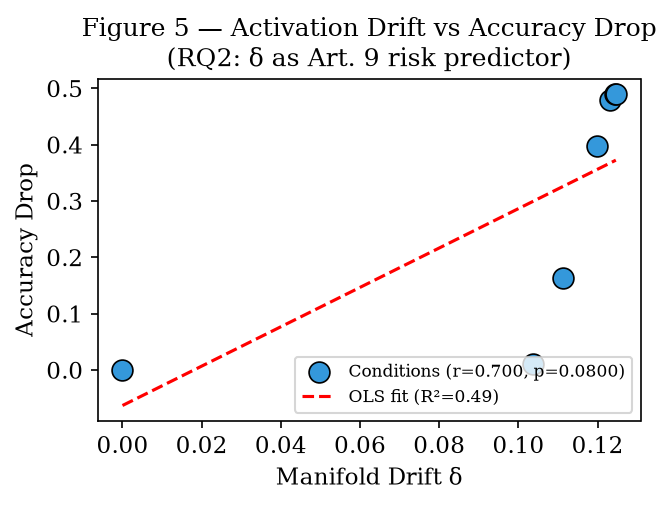
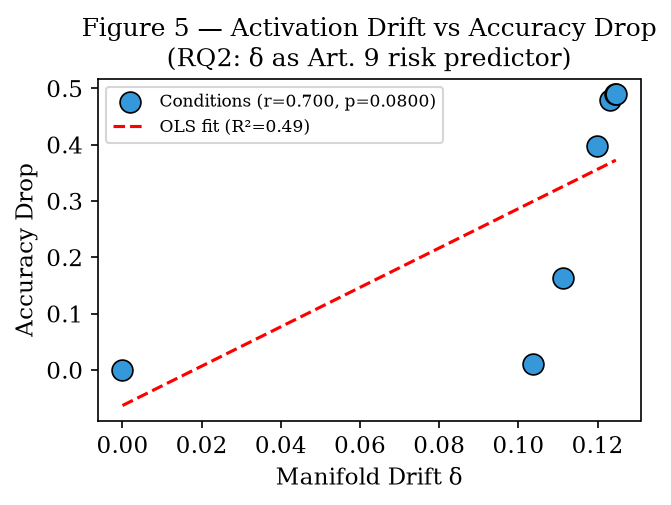
Figure 5: move legend to upper left so n=2 dot is no longer hidden

Changed region(s): [[0.4471, 0.6832, 0.9538, 0.8317], [0.149, 0.1485, 0.6557, 0.297]]

diff --git a/src/visualize.py b/src/visualize.py
@@ -249,7 +249,7 @@ def plot_correlation(conditions: List[Dict], stats_results: Dict, cfg: Experimen
     ax.set_ylabel("Accuracy Drop")
     ax.set_title("Figure 5 — Activation Drift vs Accuracy Drop\n"
                  "(RQ2: δ as Art. 9 risk predictor)")
-    ax.legend(fontsize=8, loc="lower right")
+    ax.legend(fontsize=8, loc="upper left")
     fig.tight_layout()
     _save(fig, "fig5_delta_accuracy_correlation", cfg.results_dir)
 